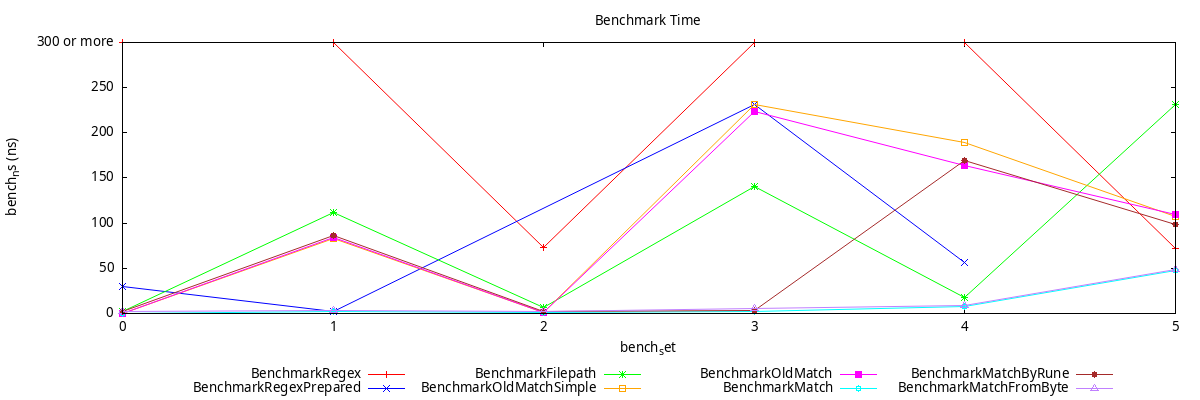
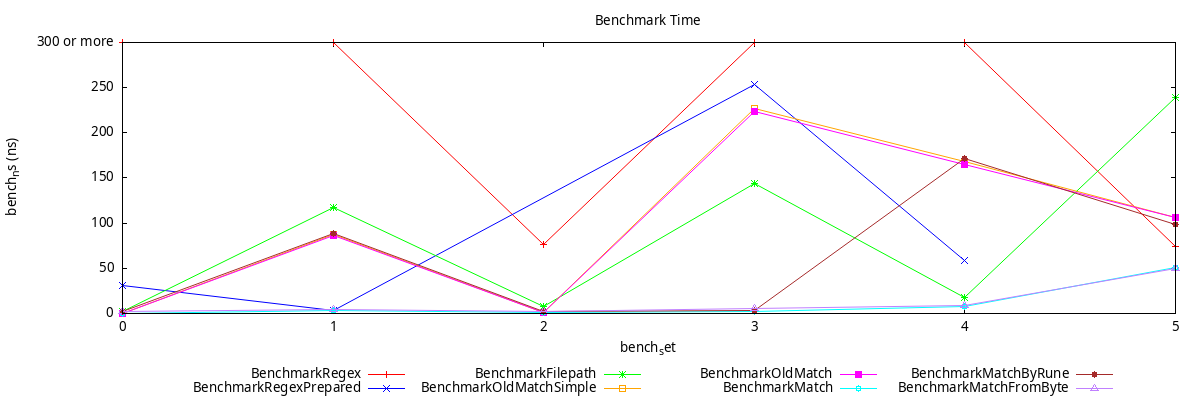
🏗 build: generate benchmark results table in README

diff --git a/README.md b/README.md
@@ -66,6 +66,21 @@ The tested functions are:
 - MatchByRune `From string with rune comparison`
 - MatchFromByte `From byte slice with byte comparison`
 
+<!-- BENCHMARK_TABLE:START -->
+
+| Rank | Benchmark | Average ns/op | Samples |
+| ---: | --- | ---: | ---: |
+| 1 | BenchmarkMatch | 10.83 | 6 |
+| 2 | BenchmarkMatchFromByte | 12.14 | 6 |
+| 3 | BenchmarkMatchByRune | 60.78 | 6 |
+| 4 | BenchmarkRegexPrepared | 86.48 | 4 |
+| 5 | BenchmarkFilepath | 87.90 | 6 |
+| 6 | BenchmarkOldMatch | 97.04 | 6 |
+| 7 | BenchmarkOldMatchSimple | 98.24 | 6 |
+| 8 | BenchmarkRegex | 2261.77 | 6 |
+
+<!-- BENCHMARK_TABLE:END -->
+
 ![time bench](./assets/graph_time.png)
 ![allocs bench](./assets/graph_allocs.png)
 
